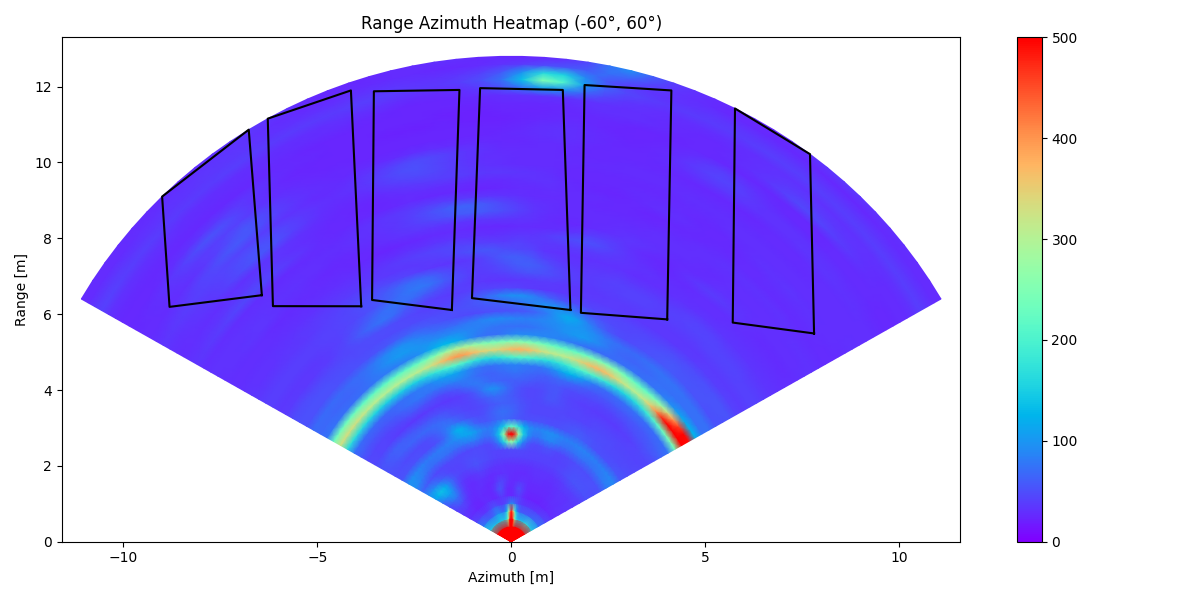
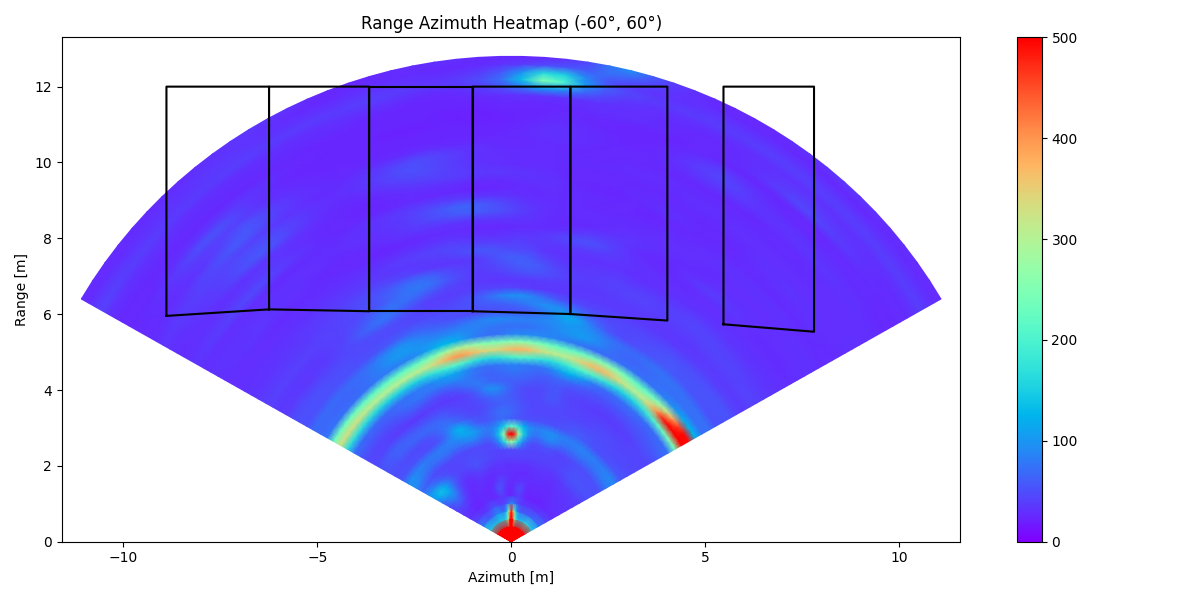
get ROI regions

diff --git a/data/data_utils.py b/data/data_utils.py
@@ -2,11 +2,12 @@ import os
 import numpy as np
 import requests
 import data
+from PIL import Image
 from bs4 import BeautifulSoup
 
 
 def get_labels(fname):
-    labels = list(fname[-10:-4])
+    labels = list(fname[fname.rfind('_'):fname.rfind('.')])
     labels = np.array(labels)
 
     return labels.astype(float)
@@ -36,14 +37,15 @@ def get_transform_index():
 def fill_data_index(fpath):
     mat = np.genfromtxt(fpath, delimiter=',')
 
+    # --- Based on 2020-10-30 measured data
     slots = [53, 54, 55, 56, 57, 58]
     corners = [
-        [(47,45), (63,38), (63,34), (40,41)],
-        [(35,37), (62,31), (60,27), (31,30)],
-        [(31,29), (59,26), (59,22), (32,20)],
-        [(31,18), (59,21), (61,17), (36,12)],
-        [(36,11), (62,16), (63,12), (43,6)],
-        [(45,6), (63,11), (63,6), (53,2)]
+        [(5.47578, 5.7336), (7.8109, 5.53696), (7.8109, 12), (5.47578, 12)],
+        [(1.52773, 6.00399), (4.0286, 5.83192), (4.0286, 12), (1.52773, 12)],
+        [(-0.993809, 6.07773), (1.52773, 6.00399), (1.52773, 12), (-0.993809, 12)],
+        [(-3.66002, 6.07773), (-0.993809, 6.07773), (-0.993809, 12), (-3.66002, 12)],
+        [(-6.24357, 6.12689), (-3.66002, 6.07773), (-3.66002, 12), (-6.24357, 12)],
+        [(-8.88911, 5.95483), (-6.24357, 6.12689), (-6.24357, 12), (-8.88911, 12)]
     ]
 
     for i in range(len(slots)):
@@ -58,16 +60,15 @@ def read_csv(fpath):
     return np.genfromtxt(fpath, delimiter=',')
 
 
-def crop_matrix(mat, index, axis=0):
-    if axis is 0:
-        return mat[:index, :]
-    elif axis is 1:
-        return mat[:,:index]
-    elif axis is 'both':
-        try:
-            return mat[:index[0], :index[1]]
-        except IndexError as e:
-            print('setting axis as "both" requires two indices')
+def crop_image(im_path):
+    im = Image.open(im_path).convert('RGB')
+    top, bot = 87, 311
+    left, right = 167, 667
+    im = im.crop((left, top, right, bot))
+    im.show()
+    im.close()
+
+    return im
 
 
 def get_links(addr, host='http://crs.comm.yzu.edu.tw:8888'):

diff --git a/illustrate/illustrate.py b/illustrate/illustrate.py
@@ -22,7 +22,7 @@ def contrast(mats, outpath, suptitle, titles, cmap='gray'):
     plt.savefig(outpath)
 
 
-def plot_heatmap(mat, fpath, shading='gouraud', cmap='rainbow'):
+def plot_heatmap(mat, fpath, shading='gouraud', cmap='rainbow', roi_boxes=True):
     if len(mat.shape) == 1:
         print(fpath + ' cannot be generated, since no data of this kind is found.')
         return 0
@@ -42,20 +42,21 @@ def plot_heatmap(mat, fpath, shading='gouraud', cmap='rainbow'):
     plt.ylim([0, range_depth + 0.5])
     plt.tight_layout()
 
-    slots = [53, 54, 55, 56, 57, 58]
     # plot ROI boxes
-    for i in range(len(slots)):
-        id = slots[i]
-        reg = data.data_index[str(id)]
-        pts = reg.get_corners()
-        pts.append(pts[0])
+    if roi_boxes:
+        slots = [53, 54, 55, 56, 57, 58]
+        for i in range(len(slots)):
+            id = slots[i]
+            reg = data.data_index[str(id)]
+            pts = reg.get_corners()
+            pts.append(pts[0])
 
-        new_x = []
-        new_y = []
-        for p in pts:
-            new_x.append(x[p[0], p[1]])
-            new_y.append(y[p[0], p[1]])
-        plt.plot(new_x, new_y, 'black')
+            x_coord = []
+            y_coord = []
+            for p in pts:
+                x_coord.append(p[0])
+                y_coord.append(p[1])
+            plt.plot(x_coord, y_coord, 'black')
 
     plt.savefig(fpath)
     plt.close()

diff --git a/data/data.py b/data/data.py
@@ -1,5 +1,6 @@
 import os
 import numpy as np
+import illustrate
 import itertools
 import glob
 from data.data_utils import *
@@ -83,6 +84,30 @@ def find_label_distr():
             f.write(l + ' : %i\n' % len(ls))
 
 
+def get_ROI(im_path):
+    im = crop_image(im_path)
+
+    return np.array(im)
+
+
+def generate_heatmaps():
+    outpath = 'output/'
+    if not os.path.isdir(outpath):
+        os.mkdir(outpath)
+
+    outpath += 'heatmaps'
+    if not os.path.isdir(outpath):
+        os.mkdir(outpath)
+
+    fpaths = glob.glob('csv_data/**/**/*.csv', recursive=True)
+    for f in fpaths:
+        mat = read_csv(f)
+        fname = f[f.find('/')+1:f.rfind('.')]
+        fname = fname.replace('/', '_')
+        illustrate.plot_heatmap(mat, os.path.join(outpath, fname + '.png'),
+                                roi_boxes=False)
+
+
 def stack_training_data(data_dir):
     data_dir = os.path.join(data_dir, '**/**/*.csv')
     fpaths = glob.glob(data_dir, recursive=True)
@@ -98,3 +123,4 @@ def stack_training_data(data_dir):
         y[:,i] = get_labels(fname)
 
     return x, y
+

diff --git a/main.py b/main.py
@@ -3,12 +3,16 @@ import data
 
 
 def main():
+    # scrape data from server
     host = 'http://crs.comm.yzu.edu.tw:8888'
     # data_path = 'csv_data/'
     # get_data(host, data_path)
-    data.fill_data_index('data/areaMask.csv')
-    data.find_label_distr()
 
+    # data preprocessing
+    data.fill_data_index('data/areaMask.csv')
+    # data.find_label_distr()
+    # extract ROI
+    data.generate_heatmaps()
 
     # build CNN
     # model = CNN()

diff --git a/data/tests.py b/data/tests.py
@@ -156,3 +156,9 @@ def run_example1():
     plot_heatmap(mat, os.path.join(path, 'Heatmap_Avg_111111.png'))
 
 
+def test_crop_image():
+    fpath = 'example/sample_output/Heatmap_Avg_111111.png'
+    mat = data.find_average('csv_data/Basement/**/*_111111.csv')
+    plot_heatmap(mat, fpath, roi_boxes=False)
+    mat = data.get_ROI(fpath)
+    print(mat)

diff --git a/cnn/cnn.py b/cnn/cnn.py
@@ -41,10 +41,10 @@ class CNN_paper:
         tf.keras.utils.plot_model(self.model, 'CNN.png')
 
 
-class CNN_all():
+class CNN():
     def __init__(self):
         input = tf.keras.Input()
-
+        
 
 
         output = tf.keras.layers.Dense(6, activation='softmax', name='Output')()

diff --git a/tests.py b/tests.py
@@ -6,8 +6,9 @@ def main():
     data.tests.test_prep()
     #tests.run_all_tests()
     #data.tests.plot_data_index()
-    data.tests.run_example1()
+    data.tests.test_crop_image()
     #data.tests.plot_sample_heatmap()
+
 
 
 if __name__ == '__main__':
